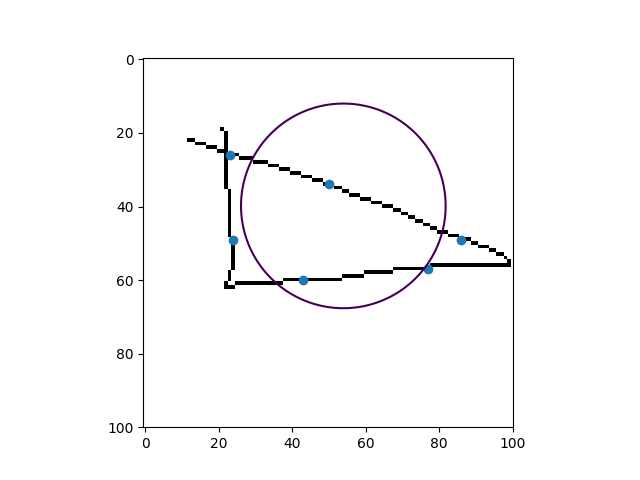
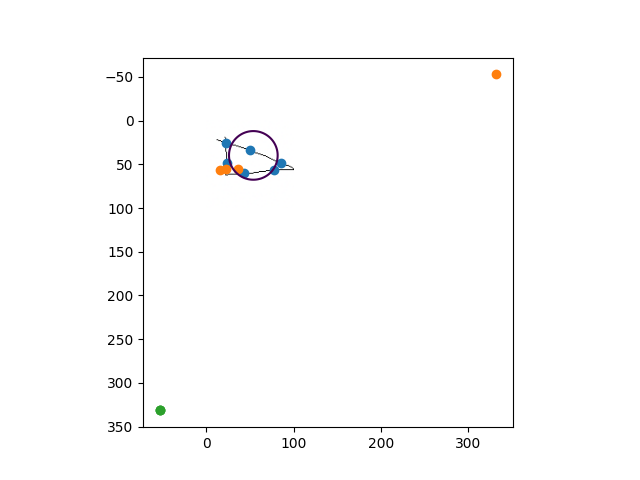
feat: Linear Alg A3 P5

diff --git a/LinearAlg/A3/A3.py b/LinearAlg/A3/A3.py
@@ -5,7 +5,77 @@ import math
 
 import random
 from copy import deepcopy
-	
+
+import itertools
+
+# Studied here: https://dccg.upc.edu/people/vera/Applet/smallest_enclosing_circle.html#explanation
+def farthestPointVoronoi(pts, axes):
+    xs, ys = list(zip(*pts))
+    axes.scatter(ys, xs)
+
+    from scipy.spatial import ConvexHull
+    ch = list(map(lambda i: pts[i], ConvexHull(pts).vertices))
+
+    vertices = []
+
+    while len(ch) >= 3:
+        # Find largest circle formed by 3 pts
+        cir = ((0, 0), -1, -1)
+        for i in range(len(ch)):
+            a, b = ch[i-1]
+            c, d = ch[i]
+            e, f = ch[i+1 if i+1 < len(ch) else 0]
+
+            # Solve the center
+            A = np.array([[-2*a+2*c, -2*b+2*d],
+                            [-2*c+2*e, -2*d+2*f]])
+            b = np.array([[-a*a+c*c-b*b+d*d],
+                            [-c*c+e*e-d*d+f*f]])
+            [x], [y] = np.linalg.solve(A, b)
+
+            if (c-x + d-y) * (c-x + d-y) > cir[1]:
+                # Save the center coordinate, the radius and the point that forms the circle
+                cir = ((x, y), (c-x + d-y) * (c-x + d-y), i)
+
+        # The largest circle's center is an vertex
+        vertices.append(cir[0])
+        # Remove the point that forms the circle
+        ch.pop(cir[2])
+    
+    # if len(ch) == 2:
+    #     vertices.append(((ch[0][0]+ch[1][0])/2, (ch[0][1]+ch[1][1])/2))
+
+    xs, ys = list(zip(*vertices))
+    axes.scatter(ys, xs)
+
+    return vertices
+
+def minimumEnclosingCircle(pts, axes, w, h):
+    vertices = farthestPointVoronoi(pts, axes)
+
+    # Add the cases that the circle is formed by the diameter of two points
+    for a, b in itertools.combinations(pts, 2):
+        vertices.append(((a[0]+b[0])/2, (a[1]+b[1])/2))
+    
+    # Find the minimum enclosing circle
+    min_cir = ((0, 0), 1e20)
+    for c in vertices:
+        r_sq = max((p[0]-c[0])*(p[0]-c[0]) + (p[1]-c[1])*(p[1]-c[1]) for p in pts)
+        if r_sq < min_cir[1]:
+            min_cir = (c, r_sq)
+    
+    radius = math.sqrt(min_cir[1])
+
+    c = min_cir[0]
+    x_axis = np.linspace(0, w, 700)
+    y_axis = np.linspace(0, h, 700)
+
+    a, b = np.meshgrid(x_axis, y_axis)
+
+    C = (a - c[0])*(a - c[0]) + (b - c[1])*(b - c[1]) - radius*radius
+    axes.contour(b, a, C, [0])
+    print(min_cir)
+
 
 def countingSort(x):
     n = len(x)
@@ -170,7 +240,6 @@ def judge_sampling(points) :
 
     return (all_point - sp_len) / all_point
 
-total = 0
 
 def judge(points) :
     sample = judge_sampling(points)
@@ -178,8 +247,7 @@ def judge(points) :
 
     print("The score of this question is : ")
     print("20 * (0.3 * ? (Efficiency, need your report) + 0.3 * {:f} (correctness) + 0.4 * {:f} (sampling) ) =  ? + {:f}".format(overlap, sample, 20 * (0.3 * overlap + 0.4 * sample)))
-    global total
-    total += 20 * (0.3 * overlap + 0.4 * sample)
+
 
 def main(file, mode="circle", no_sampling=False, draw_sample=False) :
     # read image and get circle points
@@ -235,17 +303,18 @@ def main(file, mode="circle", no_sampling=False, draw_sample=False) :
         axes.scatter(yyy, xxx)
 
     # from scipy.spatial import Voronoi, voronoi_plot_2d
-    # vor = Voronoi(list(zip(yyy, xxx)))
     # vor_far = Voronoi(list(zip(yyy, xxx)), True)
-    # vx, vy = zip(*vor.vertices)
+    # vx, vy = zip(*vor_far.vertices)
     # axes.scatter(vy, vx)
-    # voronoi_plot_2d(vor, ax=axes)
     # voronoi_plot_2d(vor_far, ax=axes)
 
     # print([x[0], x[1]])
     # axes.scatter(x[0], x[1])
     # print(vor.vertices)
     
+    aaa = farthestPointVoronoi(sp, h, w)
+    xxx, yyy = zip(*aaa)
+    axes.scatter(yyy, xxx)
 
     plt.savefig(file+'.output.png')
     plt.show()
@@ -257,15 +326,31 @@ def main(file, mode="circle", no_sampling=False, draw_sample=False) :
     judge(points)
     print("="*50)
 
+# circle_files = ['circle6.png', '1.png', '2.png', '3.png', 'case1.png', 'case2.png', 'case3.png', 'case4.png', 'case5.png', 'puddle.png', 'x=y.png']
+# circle_files += ["1.png", "circle1.png", "circle2.png", "circle3.png"]
+# # ellipse_files = ['ellipse1.png', "ellipse2.png", "3.png"]
+
+# for f in circle_files :
+#     main(f, mode="circle", draw_sample=True)
+
+
+def circle(f):
+    im1 = img.imread(f)
+    [h, w, c] = np.array(im1).shape
+    points = []
+    for i in range(h):
+        for j in range(w):
+            if (all(im1[i,j,:])==0):
+                points.append([i, j])
+    sp = dataSampling(points)
+
+    figure, axes = plt.subplots(1)
+    plt.xlim([0, h])
+    plt.ylim([0, w])
+    # plt.imshow(im1)
+    plt.gca().set_aspect('equal', adjustable='box')
+    minimumEnclosingCircle(sp, axes, w, h)
+    plt.show()
 circle_files = ['circle6.png', '1.png', '2.png', '3.png', 'case1.png', 'case2.png', 'case3.png', 'case4.png', 'case5.png', 'puddle.png', 'x=y.png']
-circle_files += ["1.png", "circle1.png", "circle2.png", "circle3.png"]
-# ellipse_files = ['ellipse1.png', "ellipse2.png", "3.png"]
-
 for f in circle_files :
-    main(f, mode="circle", draw_sample=True)
-
-# main('x=y.png', mode="circle")
-# main('2.png', mode="circle")
-# main('3.png', mode="circle")
-
-print(total)
+    circle(f)
